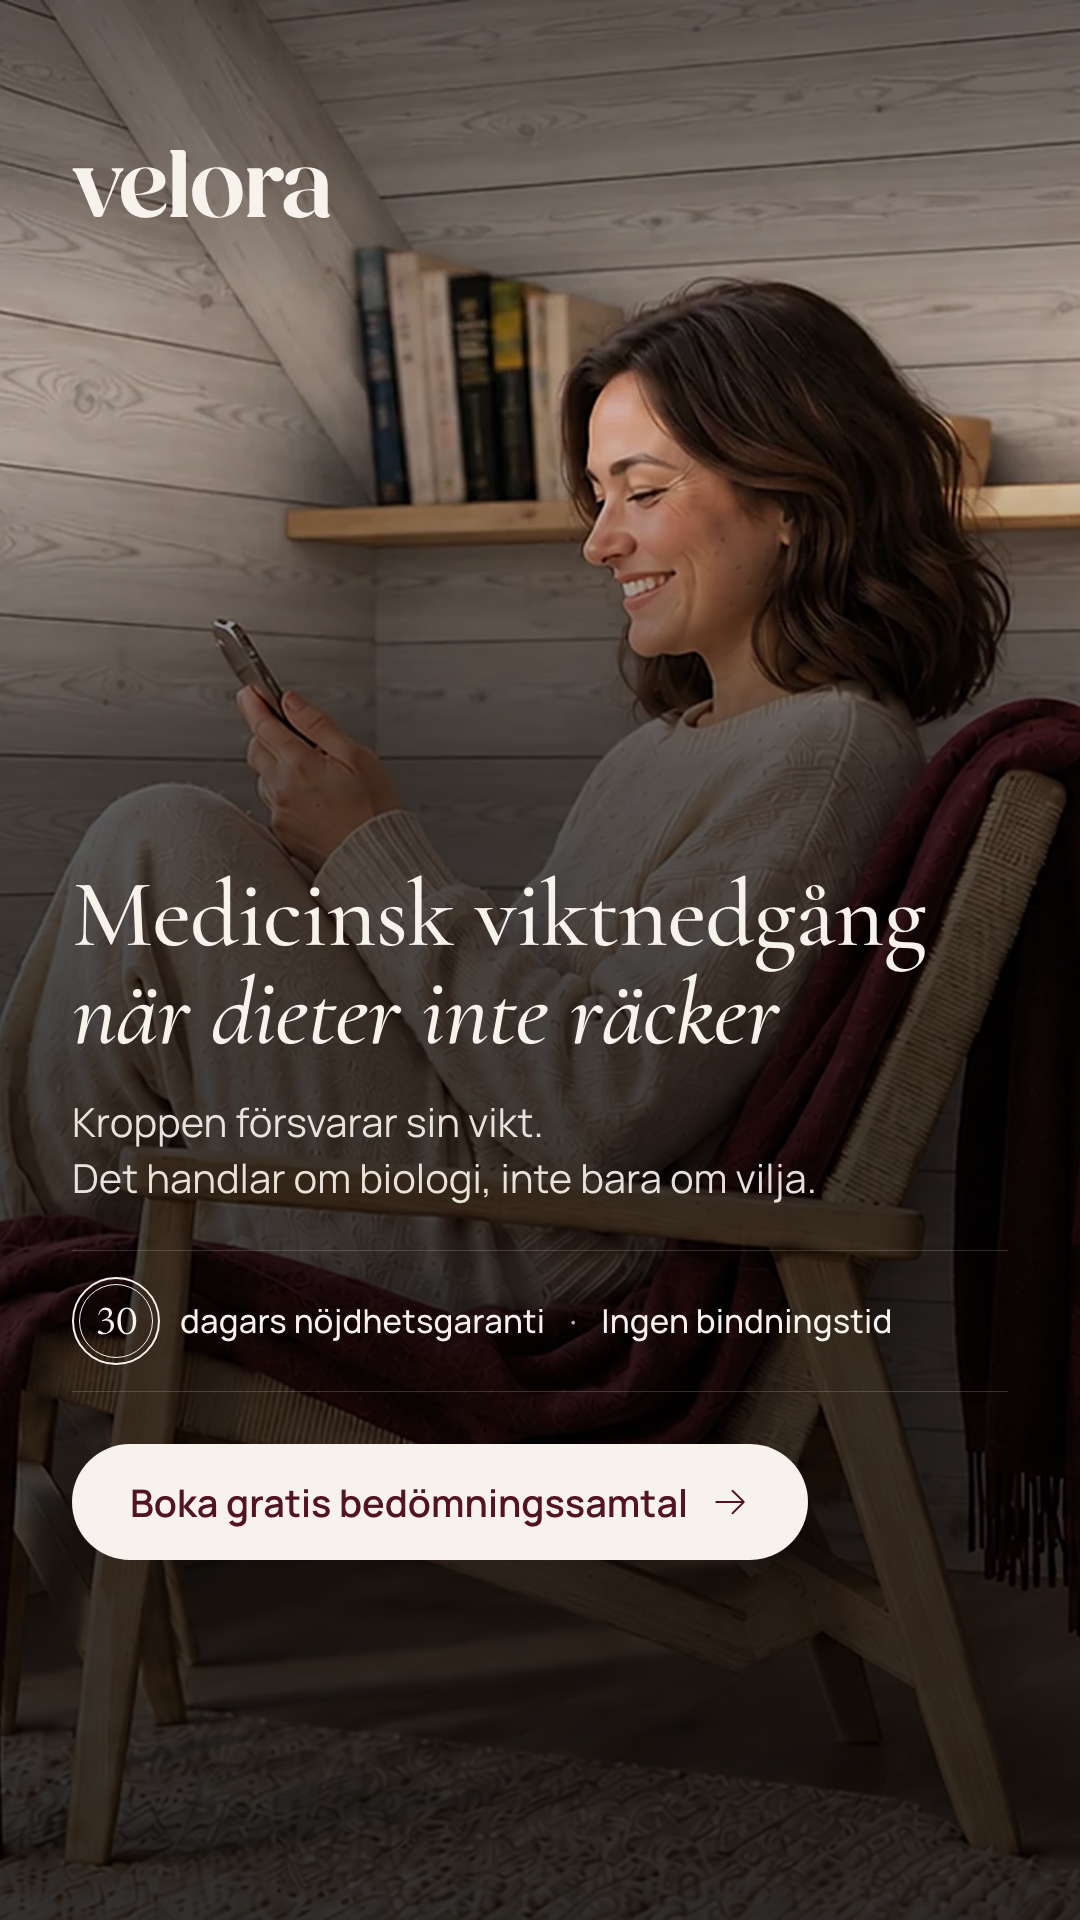
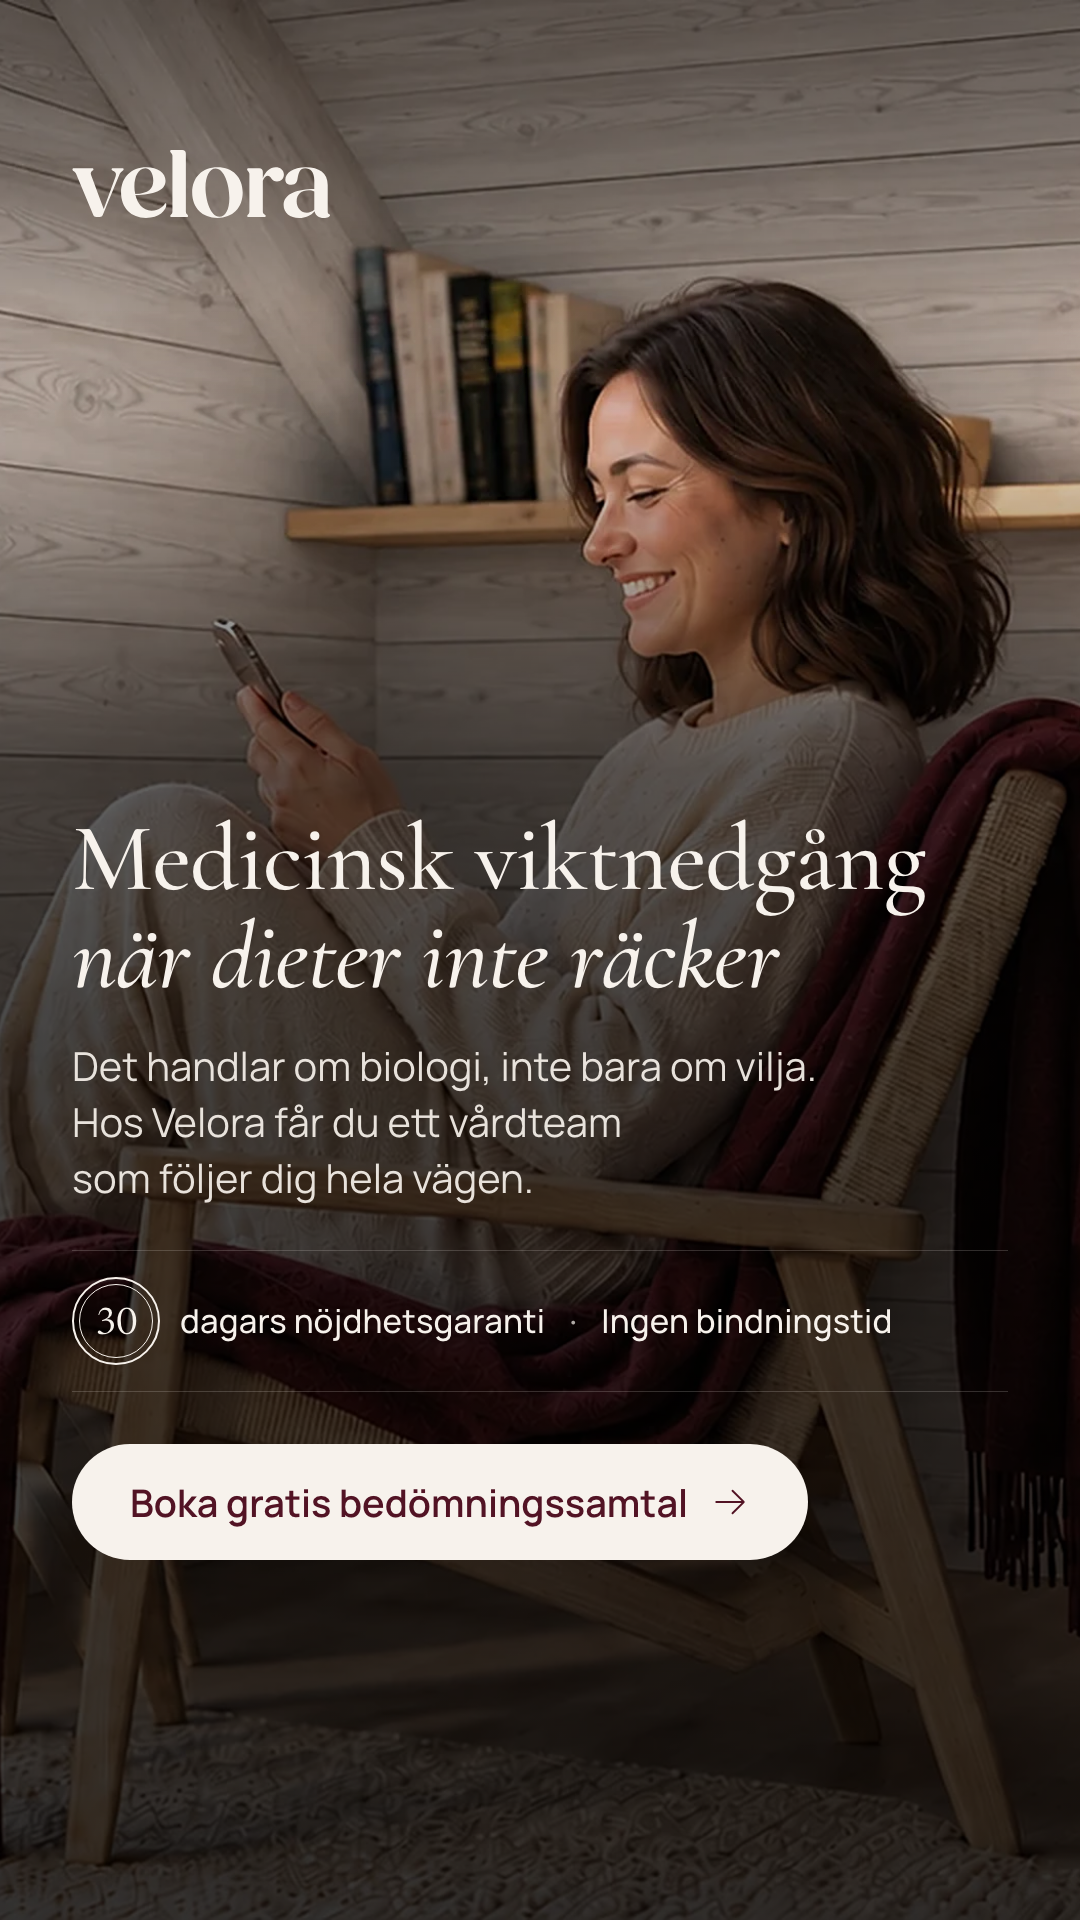
Ad B: care-team line replaces "Kroppen försvarar sin vikt"
Subtitle now reads the biology line, then "Hos Velora får du ett vårdteam
som följer dig hela vägen". Export re-rendered; prompt log entry 258.

Changed region(s): [[0.0611, 0.4062, 0.8556, 0.625], [0.7028, 0.5938, 0.7333, 0.625]]

diff --git a/docs/prompt-log.md b/docs/prompt-log.md
@@ -1710,3 +1710,11 @@ For both ad versions, place “dagars nöjdhetsgaranti” immediately after the 
 ```
 Commit and push
 ```
+
+## 258 – Ad version B: team sentence instead of "Kroppen försvarar sin vikt" (Claude Code, 2026-11-04)
+
+```
+For this version, update the subtitle: remove “Kroppen försvarar sin vikt” and add “Hos Velora får du ett vårdteam som följer dig hela vägen” after “Det handlar om biologi, inte bara om vilja”. Leave the rest unchanged.
+```
+
+(Attached: the current version B export, velora-annons-9x16-b.png.)
